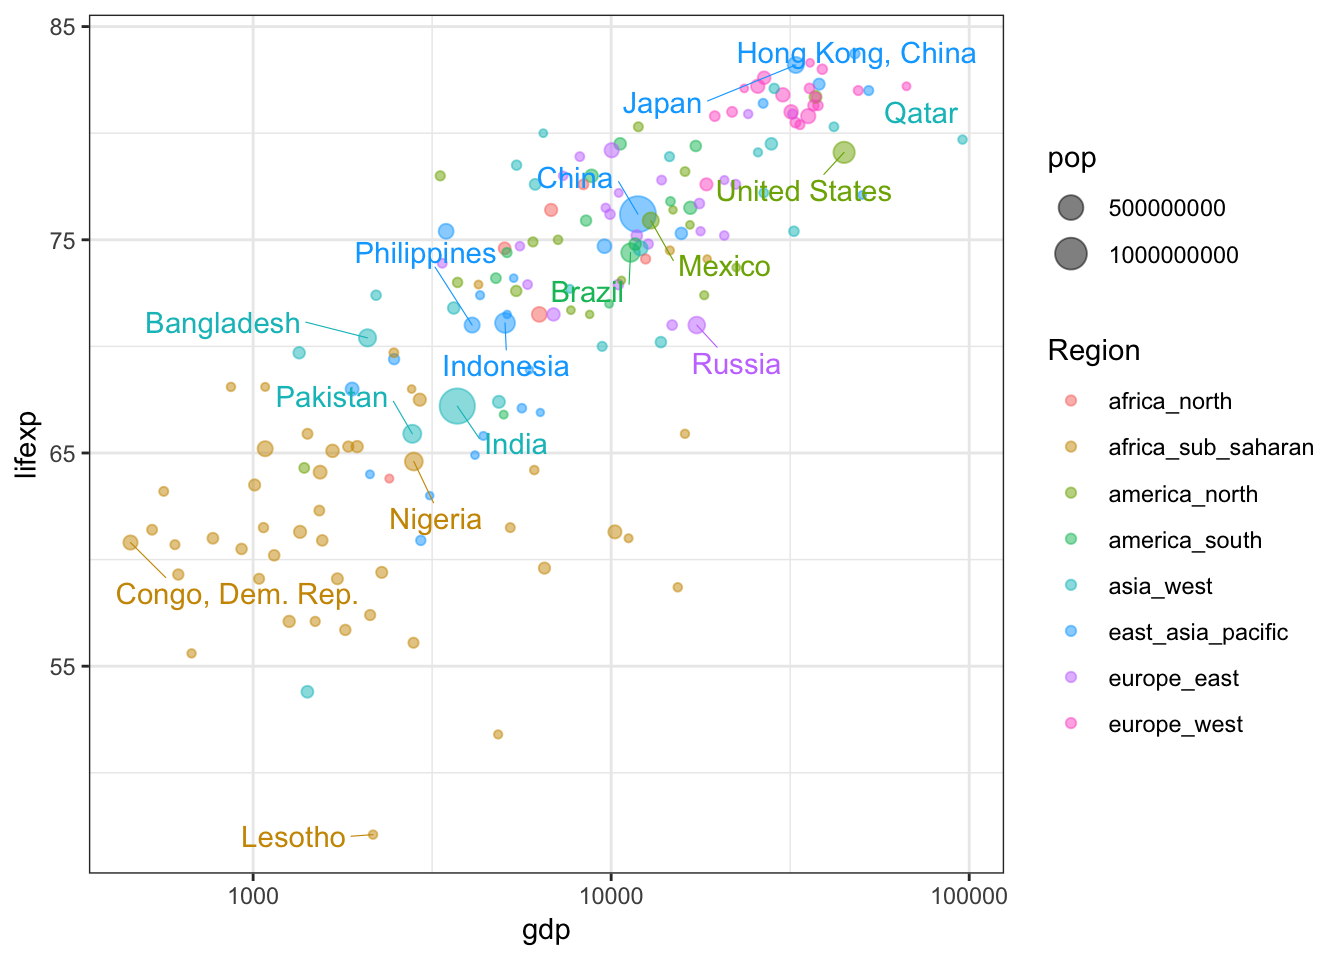
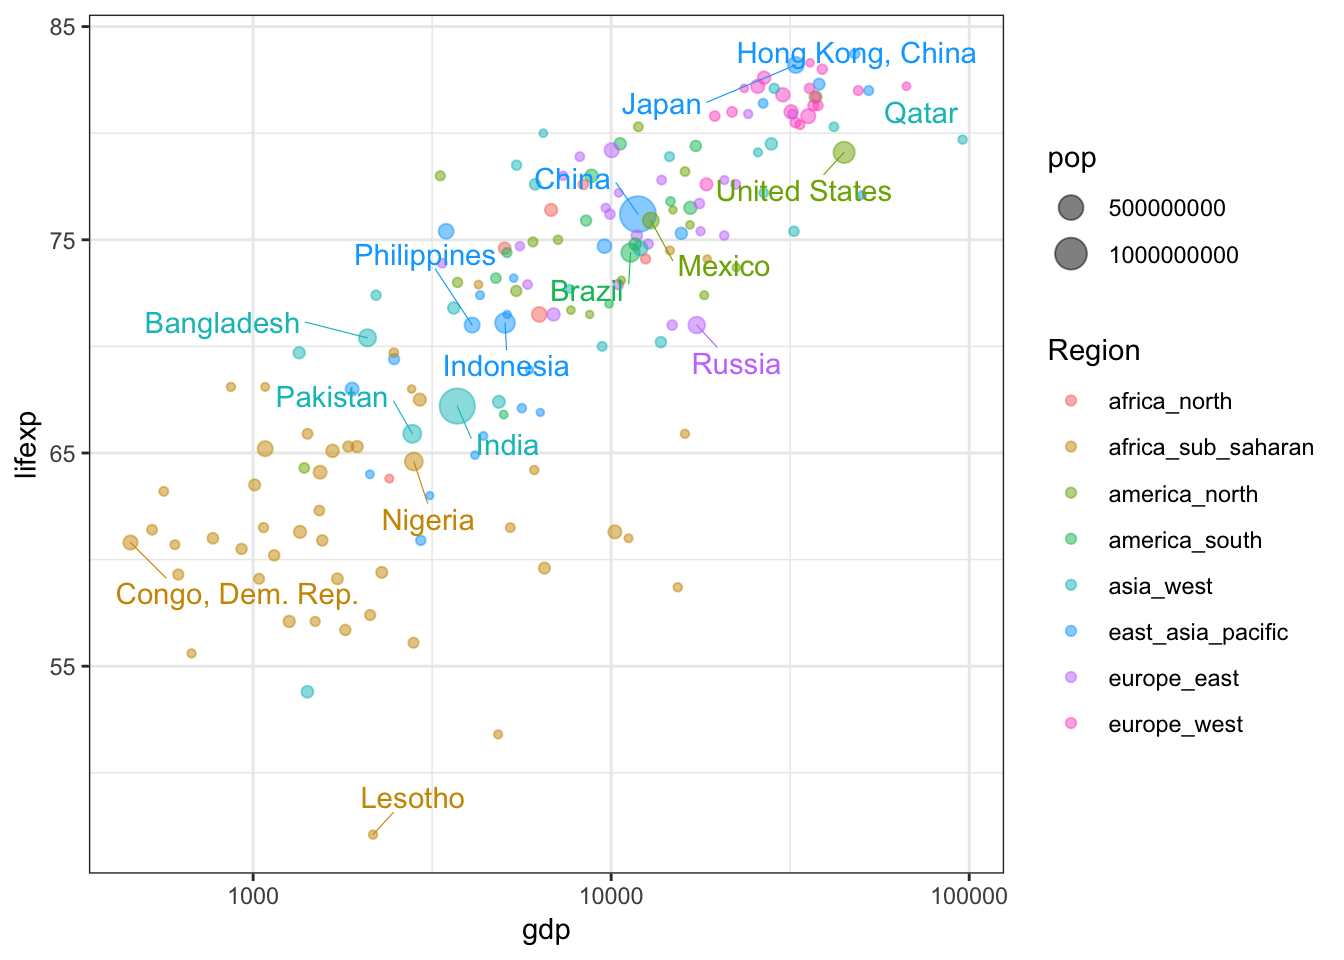
add corrections

diff --git a/docs/stat-analysis.html b/docs/stat-analysis.html
@@ -1650,7 +1650,7 @@ code > span.in { color: #60a0b0; font-weight: bold; font-style: italic; } /* Inf
 <h1><span class="header-section-number">Глава 7</span> Основы статистики в R</h1>
 <div id="stat_analysis_prerequisites" class="section level2">
 <h2><span class="header-section-number">7.1</span> Предварительные требования</h2>
-<p>Для работы по теме текущей лекции вам понадобятся пакеты из <strong>tidyverse</strong>. Помимо этого, мы будем работать с данными через интерфейс <em>Google Sheets</em> напрямую с использованием пакета <a href="https://cran.r-project.org/web/packages/googlesheets/"><strong>googlesheets</strong></a>:</p>
+<p>Для работы по теме текущей лекции вам понадобятся пакеты из <strong>tidyverse</strong>. Помимо этого, мы будем работать с данными через интерфейс <em>Google Sheets</em> напрямую с использованием пакета <a href="https://cran.r-project.org/web/packages/googlesheets/"><strong>googlesheets</strong></a>. Также в лекции используется пакет <strong>ggrepel</strong>, позволяющий устранять конфликты подписей на графиках <strong>ggplot</strong>:</p>
 <div class="sourceCode"><pre class="sourceCode r"><code class="sourceCode r"><span class="kw">library</span>(googlesheets)
 <span class="kw">library</span>(tidyverse)
 <span class="kw">library</span>(ggrepel)</code></pre></div>

diff --git a/docs/07-StatisticsBasic.md b/docs/07-StatisticsBasic.md
@@ -4,7 +4,7 @@
 
 ## Предварительные требования {#stat_analysis_prerequisites}
 
-Для работы по теме текущей лекции вам понадобятся пакеты из __tidyverse__. Помимо этого, мы будем работать с данными через интерфейс _Google Sheets_ напрямую с использованием пакета [__googlesheets__](https://cran.r-project.org/web/packages/googlesheets/):
+Для работы по теме текущей лекции вам понадобятся пакеты из __tidyverse__. Помимо этого, мы будем работать с данными через интерфейс _Google Sheets_ напрямую с использованием пакета [__googlesheets__](https://cran.r-project.org/web/packages/googlesheets/). Также в лекции используется пакет __ggrepel__, позволяющий устранять конфликты подписей на графиках __ggplot__:
 
 ```r
 library(googlesheets)
